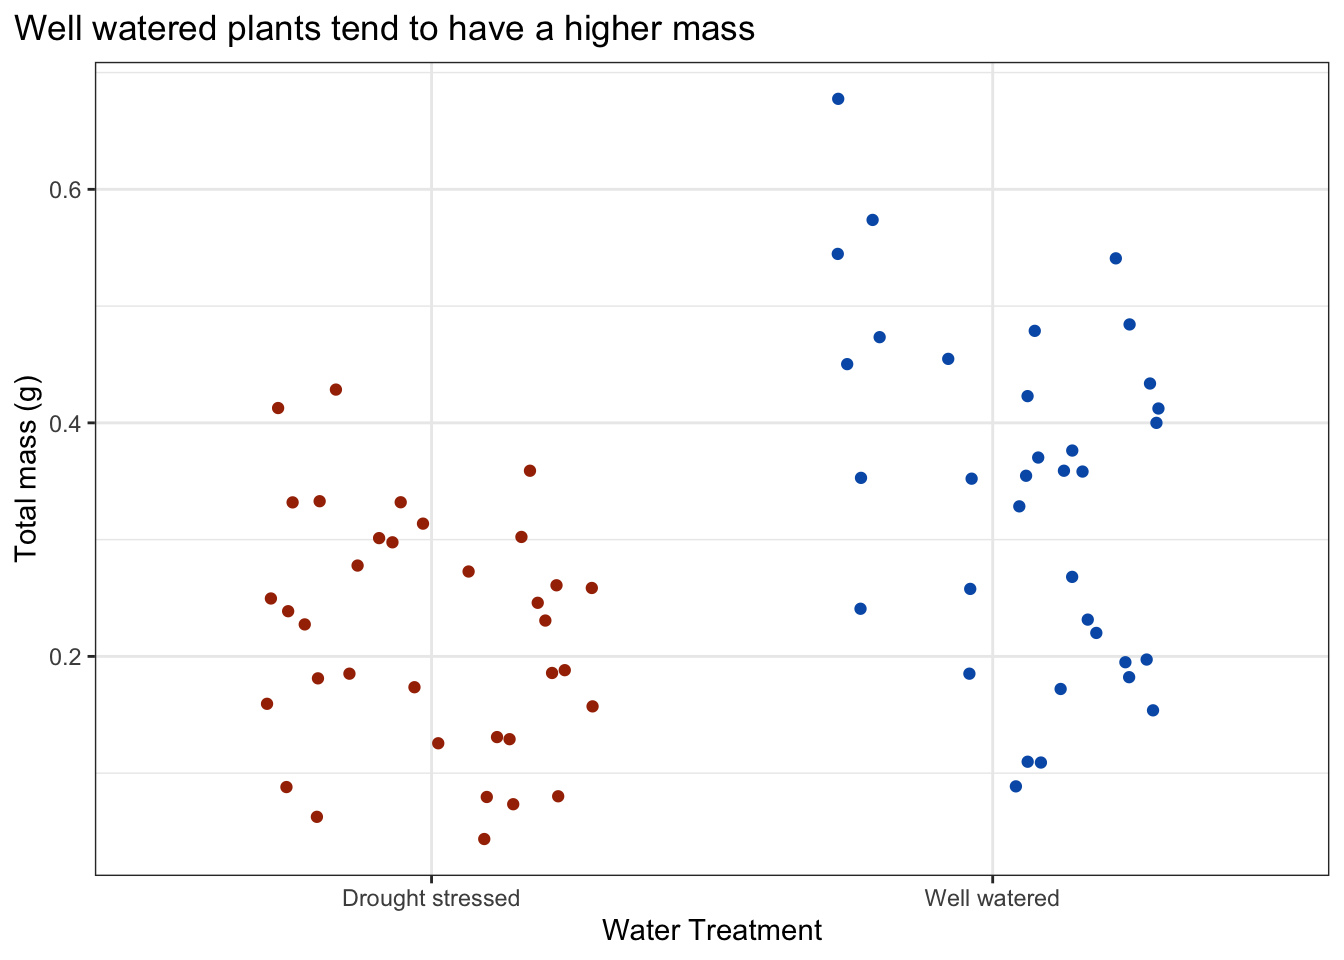
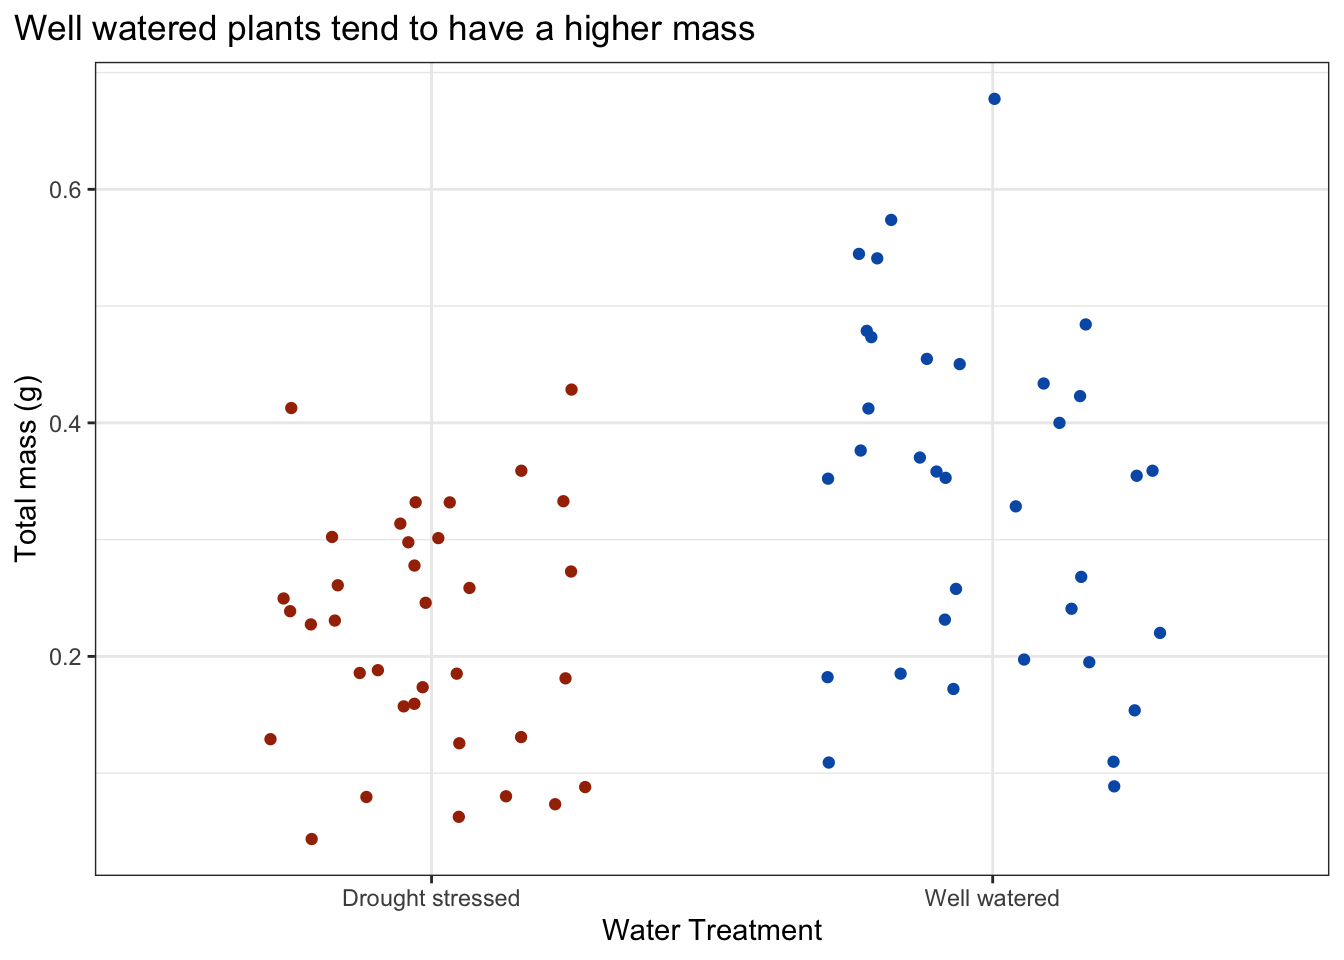
Selected best model, looked at summary and wrote about models

diff --git a/code/workshop-code.html b/code/workshop-code.html
@@ -300,16 +300,16 @@ pre > code.sourceCode > span > a:first-child::before { text-decoration: underlin
 <pre><code># A tibble: 10 × 4
    species_name               water_treatment    sla total_g
    &lt;fct&gt;                      &lt;fct&gt;            &lt;dbl&gt;   &lt;dbl&gt;
- 1 Salvia leucophylla         Well watered     113.   0.195 
- 2 Eschscholzia californica   Well watered     157.   0.358 
- 3 Grindelia camporum         Well watered     221.   0.473 
- 4 Encelia californica        Well watered     170.   0.455 
- 5 Encelia californica        Drought stressed 180.   0.332 
- 6 Eschscholzia californica   Well watered     127.   0.434 
- 7 Lotus scoparius            Drought stressed  90.9  0.0796
- 8 Penstemon centranthifolius Well watered     154.   0.268 
- 9 Salvia leucophylla         Drought stressed  99.7  0.227 
-10 Lotus scoparius            Drought stressed 116.   0.0802</code></pre>
+ 1 Salvia leucophylla         Drought stressed 110.    0.185
+ 2 Encelia californica        Well watered     170.    0.455
+ 3 Encelia californica        Drought stressed 161.    0.273
+ 4 Eschscholzia californica   Well watered     117.    0.574
+ 5 Stipa pulchra              Drought stressed 135.    0.332
+ 6 Salvia leucophylla         Well watered      99.7   0.241
+ 7 Eschscholzia californica   Well watered     116.    0.423
+ 8 Penstemon centranthifolius Drought stressed 175.    0.188
+ 9 Encelia californica        Well watered     216.    0.359
+10 Grindelia camporum         Well watered     221.    0.473</code></pre>
 </div>
 </div>
 </section>
@@ -486,55 +486,139 @@ pre > code.sourceCode > span > a:first-child::before { text-decoration: underlin
 <h2 class="anchored" data-anchor-id="model-fitting">Model fitting</h2>
 <div class="cell">
 <div class="sourceCode cell-code" id="cb11"><pre class="sourceCode r code-with-copy"><code class="sourceCode r"><span id="cb11-1"><a href="#cb11-1" aria-hidden="true" tabindex="-1"></a><span class="co"># model 0: null model</span></span>
-<span id="cb11-2"><a href="#cb11-2" aria-hidden="true" tabindex="-1"></a></span>
-<span id="cb11-3"><a href="#cb11-3" aria-hidden="true" tabindex="-1"></a></span>
-<span id="cb11-4"><a href="#cb11-4" aria-hidden="true" tabindex="-1"></a><span class="co"># model 1: all predictors</span></span>
-<span id="cb11-5"><a href="#cb11-5" aria-hidden="true" tabindex="-1"></a></span>
-<span id="cb11-6"><a href="#cb11-6" aria-hidden="true" tabindex="-1"></a></span>
-<span id="cb11-7"><a href="#cb11-7" aria-hidden="true" tabindex="-1"></a><span class="co"># model 2: SLA and water treatment</span></span>
-<span id="cb11-8"><a href="#cb11-8" aria-hidden="true" tabindex="-1"></a></span>
+<span id="cb11-2"><a href="#cb11-2" aria-hidden="true" tabindex="-1"></a>model0 <span class="ot">&lt;-</span> <span class="fu">lm</span>(total_g <span class="sc">~</span> <span class="dv">1</span>,</span>
+<span id="cb11-3"><a href="#cb11-3" aria-hidden="true" tabindex="-1"></a>             <span class="at">data =</span> drought_exp_clean)</span>
+<span id="cb11-4"><a href="#cb11-4" aria-hidden="true" tabindex="-1"></a></span>
+<span id="cb11-5"><a href="#cb11-5" aria-hidden="true" tabindex="-1"></a><span class="co"># model 1: all predictors</span></span>
+<span id="cb11-6"><a href="#cb11-6" aria-hidden="true" tabindex="-1"></a>model1 <span class="ot">&lt;-</span> <span class="fu">lm</span>(total_g <span class="sc">~</span> sla <span class="sc">+</span></span>
+<span id="cb11-7"><a href="#cb11-7" aria-hidden="true" tabindex="-1"></a>               water_treatment <span class="sc">+</span> species_name,</span>
+<span id="cb11-8"><a href="#cb11-8" aria-hidden="true" tabindex="-1"></a>             <span class="at">data =</span> drought_exp_clean)</span>
 <span id="cb11-9"><a href="#cb11-9" aria-hidden="true" tabindex="-1"></a></span>
-<span id="cb11-10"><a href="#cb11-10" aria-hidden="true" tabindex="-1"></a><span class="co"># model 3: SLA and species</span></span>
-<span id="cb11-11"><a href="#cb11-11" aria-hidden="true" tabindex="-1"></a></span>
-<span id="cb11-12"><a href="#cb11-12" aria-hidden="true" tabindex="-1"></a></span>
-<span id="cb11-13"><a href="#cb11-13" aria-hidden="true" tabindex="-1"></a><span class="co"># model 4: water treatment and species</span></span>
-<span id="cb11-14"><a href="#cb11-14" aria-hidden="true" tabindex="-1"></a></span>
-<span id="cb11-15"><a href="#cb11-15" aria-hidden="true" tabindex="-1"></a></span>
-<span id="cb11-16"><a href="#cb11-16" aria-hidden="true" tabindex="-1"></a><span class="co"># model 5: SLA</span></span>
+<span id="cb11-10"><a href="#cb11-10" aria-hidden="true" tabindex="-1"></a><span class="co"># model 2: SLA and water treatment</span></span>
+<span id="cb11-11"><a href="#cb11-11" aria-hidden="true" tabindex="-1"></a>model2 <span class="ot">&lt;-</span> <span class="fu">lm</span>(total_g <span class="sc">~</span> sla <span class="sc">+</span> water_treatment,</span>
+<span id="cb11-12"><a href="#cb11-12" aria-hidden="true" tabindex="-1"></a>             <span class="at">data =</span> drought_exp_clean)</span>
+<span id="cb11-13"><a href="#cb11-13" aria-hidden="true" tabindex="-1"></a></span>
+<span id="cb11-14"><a href="#cb11-14" aria-hidden="true" tabindex="-1"></a><span class="co"># model 3: SLA and species</span></span>
+<span id="cb11-15"><a href="#cb11-15" aria-hidden="true" tabindex="-1"></a>model3 <span class="ot">&lt;-</span> <span class="fu">lm</span>(total_g <span class="sc">~</span> sla <span class="sc">+</span> species_name,</span>
+<span id="cb11-16"><a href="#cb11-16" aria-hidden="true" tabindex="-1"></a>             <span class="at">data =</span> drought_exp_clean)</span>
 <span id="cb11-17"><a href="#cb11-17" aria-hidden="true" tabindex="-1"></a></span>
-<span id="cb11-18"><a href="#cb11-18" aria-hidden="true" tabindex="-1"></a></span>
-<span id="cb11-19"><a href="#cb11-19" aria-hidden="true" tabindex="-1"></a><span class="co"># model 6: water treatment</span></span>
-<span id="cb11-20"><a href="#cb11-20" aria-hidden="true" tabindex="-1"></a></span>
+<span id="cb11-18"><a href="#cb11-18" aria-hidden="true" tabindex="-1"></a><span class="co"># model 4: water treatment and species</span></span>
+<span id="cb11-19"><a href="#cb11-19" aria-hidden="true" tabindex="-1"></a>model4 <span class="ot">&lt;-</span> <span class="fu">lm</span>(total_g <span class="sc">~</span> water_treatment <span class="sc">+</span> species_name,</span>
+<span id="cb11-20"><a href="#cb11-20" aria-hidden="true" tabindex="-1"></a>             <span class="at">data =</span> drought_exp_clean)</span>
 <span id="cb11-21"><a href="#cb11-21" aria-hidden="true" tabindex="-1"></a></span>
-<span id="cb11-22"><a href="#cb11-22" aria-hidden="true" tabindex="-1"></a><span class="co"># model 7: species</span></span></code><button title="Copy to Clipboard" class="code-copy-button"><i class="bi"></i></button></pre></div>
+<span id="cb11-22"><a href="#cb11-22" aria-hidden="true" tabindex="-1"></a><span class="co"># model 5: SLA</span></span>
+<span id="cb11-23"><a href="#cb11-23" aria-hidden="true" tabindex="-1"></a>model5 <span class="ot">&lt;-</span> <span class="fu">lm</span>(total_g <span class="sc">~</span> sla,</span>
+<span id="cb11-24"><a href="#cb11-24" aria-hidden="true" tabindex="-1"></a>             <span class="at">data =</span> drought_exp_clean)</span>
+<span id="cb11-25"><a href="#cb11-25" aria-hidden="true" tabindex="-1"></a></span>
+<span id="cb11-26"><a href="#cb11-26" aria-hidden="true" tabindex="-1"></a><span class="co"># model 6: water treatment</span></span>
+<span id="cb11-27"><a href="#cb11-27" aria-hidden="true" tabindex="-1"></a>model6 <span class="ot">&lt;-</span> <span class="fu">lm</span>(total_g <span class="sc">~</span> water_treatment,</span>
+<span id="cb11-28"><a href="#cb11-28" aria-hidden="true" tabindex="-1"></a>             <span class="at">data =</span> drought_exp_clean)</span>
+<span id="cb11-29"><a href="#cb11-29" aria-hidden="true" tabindex="-1"></a></span>
+<span id="cb11-30"><a href="#cb11-30" aria-hidden="true" tabindex="-1"></a><span class="co"># model 7: species</span></span>
+<span id="cb11-31"><a href="#cb11-31" aria-hidden="true" tabindex="-1"></a>model7 <span class="ot">&lt;-</span> <span class="fu">lm</span>(total_g <span class="sc">~</span> species_name,</span>
+<span id="cb11-32"><a href="#cb11-32" aria-hidden="true" tabindex="-1"></a>             <span class="at">data =</span> drought_exp_clean)</span></code><button title="Copy to Clipboard" class="code-copy-button"><i class="bi"></i></button></pre></div>
 </div>
 </section>
 <section id="model-selection" class="level2">
 <h2 class="anchored" data-anchor-id="model-selection">Model selection</h2>
 <p>Insert code to use the <code>AICc()</code> function to calculate the AIC for each model.</p>
 <p>Arrange by decreasing AIC.</p>
+<div class="cell">
+<div class="sourceCode cell-code" id="cb12"><pre class="sourceCode r code-with-copy"><code class="sourceCode r"><span id="cb12-1"><a href="#cb12-1" aria-hidden="true" tabindex="-1"></a><span class="fu">AICc</span>(</span>
+<span id="cb12-2"><a href="#cb12-2" aria-hidden="true" tabindex="-1"></a>  model0,</span>
+<span id="cb12-3"><a href="#cb12-3" aria-hidden="true" tabindex="-1"></a>  model1,</span>
+<span id="cb12-4"><a href="#cb12-4" aria-hidden="true" tabindex="-1"></a>  model2,</span>
+<span id="cb12-5"><a href="#cb12-5" aria-hidden="true" tabindex="-1"></a>  model3,</span>
+<span id="cb12-6"><a href="#cb12-6" aria-hidden="true" tabindex="-1"></a>  model4,</span>
+<span id="cb12-7"><a href="#cb12-7" aria-hidden="true" tabindex="-1"></a>  model5,</span>
+<span id="cb12-8"><a href="#cb12-8" aria-hidden="true" tabindex="-1"></a>  model6,</span>
+<span id="cb12-9"><a href="#cb12-9" aria-hidden="true" tabindex="-1"></a>  model7</span>
+<span id="cb12-10"><a href="#cb12-10" aria-hidden="true" tabindex="-1"></a>) <span class="sc">|&gt;</span> </span>
+<span id="cb12-11"><a href="#cb12-11" aria-hidden="true" tabindex="-1"></a>  <span class="fu">arrange</span>(AICc)</span></code><button title="Copy to Clipboard" class="code-copy-button"><i class="bi"></i></button></pre></div>
+<div class="cell-output cell-output-stdout">
+<pre><code>       df       AICc
+model4  9 -156.19595
+model1 10 -153.75361
+model3  9 -124.07569
+model7  8 -120.30191
+model2  4  -95.82521
+model5  3  -88.85180
+model6  3  -86.76661
+model0  2  -74.98036</code></pre>
+</div>
+</div>
+<p>Arrange by decreasing AIC.</p>
+<p>Best model is model4: the on ethat includes only water treatment and species.</p>
 </section>
 <section id="model-diagnostics" class="level2">
 <h2 class="anchored" data-anchor-id="model-diagnostics">Model diagnostics</h2>
 <p>Insert code to look at the diagnostic plots for the best model.</p>
+<div class="cell">
+<div class="sourceCode cell-code" id="cb14"><pre class="sourceCode r code-with-copy"><code class="sourceCode r"><span id="cb14-1"><a href="#cb14-1" aria-hidden="true" tabindex="-1"></a><span class="fu">par</span>(<span class="at">mfrow =</span> <span class="fu">c</span>(<span class="dv">2</span>, <span class="dv">2</span>)) </span>
+<span id="cb14-2"><a href="#cb14-2" aria-hidden="true" tabindex="-1"></a><span class="fu">plot</span>(model4) </span></code><button title="Copy to Clipboard" class="code-copy-button"><i class="bi"></i></button></pre></div>
+<div class="cell-output-display">
+<div>
+<figure class="figure">
+<p><img src="workshop-code_files/figure-html/residual%20plots%20for%20model4-1.png" class="img-fluid figure-img" width="672"></p>
+</figure>
+</div>
+</div>
+</div>
+<p>Diagnostic plots look good.</p>
+<p>Residuals (standing in for errors) look normally distributed based on the QQ plot. Residuals look homoscedastic (have constant variance) based on residuals vs.&nbsp;Fitted plot and Scale-Location plot.</p>
+<p>No outliers influencing model estimates of coefficients.</p>
 </section>
 <section id="summary" class="level2">
 <h2 class="anchored" data-anchor-id="summary">Summary</h2>
 <p>Insert code to display the summary for the best model.</p>
+<div class="cell">
+<div class="sourceCode cell-code" id="cb15"><pre class="sourceCode r code-with-copy"><code class="sourceCode r"><span id="cb15-1"><a href="#cb15-1" aria-hidden="true" tabindex="-1"></a><span class="fu">summary</span>(model4)</span></code><button title="Copy to Clipboard" class="code-copy-button"><i class="bi"></i></button></pre></div>
+<div class="cell-output cell-output-stdout">
+<pre><code>
+Call:
+lm(formula = total_g ~ water_treatment + species_name, data = drought_exp_clean)
+
+Residuals:
+      Min        1Q    Median        3Q       Max 
+-0.157087 -0.046953 -0.003733  0.041244  0.192657 
+
+Coefficients:
+                                       Estimate Std. Error t value Pr(&gt;|t|)    
+(Intercept)                             0.05455    0.02451   2.225  0.02973 *  
+water_treatmentWell watered             0.11695    0.01733   6.746 5.90e-09 ***
+species_namePenstemon centranthifolius  0.05003    0.03243   1.543  0.12799    
+species_nameSalvia leucophylla          0.12020    0.03243   3.706  0.00045 ***
+species_nameEncelia californica         0.21774    0.03243   6.714 6.70e-09 ***
+species_nameStipa pulchra               0.22881    0.03243   7.055 1.72e-09 ***
+species_nameEschscholzia californica    0.23164    0.03243   7.143 1.22e-09 ***
+species_nameGrindelia camporum          0.31335    0.03243   9.662 5.53e-14 ***
+---
+Signif. codes:  0 '***' 0.001 '**' 0.01 '*' 0.05 '.' 0.1 ' ' 1
+
+Residual standard error: 0.07252 on 62 degrees of freedom
+Multiple R-squared:  0.7535,    Adjusted R-squared:  0.7257 
+F-statistic: 27.08 on 7 and 62 DF,  p-value: &lt; 2.2e-16</code></pre>
+</div>
+</div>
 <p><strong>What are the reference levels?</strong></p>
+<p>Drought treatment and Lotus scoparius because they are not listed in the summary output.</p>
 <p><strong>What does the <code>(Intercept)</code> represent?</strong></p>
+<p>Estimated mass for drought stressed lotus scoparius 0.055 +/- 0.02 (SE) g.</p>
 <p><strong>What does <code>water_treatmentWell watered</code> represent?</strong></p>
+<p>This is the model prediction for the difference in Lotus scoparius mass between the well watered and drought stressed treatments. The model predicts the difference is 0.12 +/- 0.02 (SE) g.</p>
 <p><strong>What does <code>species_namePenstemon centranthifolius</code> represent?</strong></p>
+<p>This is the model prediction for the difference between Penstemon centranthifolius mass in the well watered treatment and Lotus scoparius mass in the well watered treatment. The model predicts that this difference is 0.05 +/- 0.03 (SE) g.</p>
 <p><strong>What does <code>species_nameEschscholzia californica</code> represent?</strong></p>
+<p>This is the model prediction for the difference between Escholzia californica mass in the well watered treatment and Lotus scoparius mass in the well watered treatment. The model predicts that this difference is 0.23 +/- 0.03 (SE) g.</p>
 </section>
 <section id="stop-and-think-what-does-this-model-mean" class="level2">
 <h2 class="anchored" data-anchor-id="stop-and-think-what-does-this-model-mean">Stop and think: what does this model mean?</h2>
 <p><strong>What is the best model?</strong></p>
-<p>[insert your response here]</p>
+<p>The best model includes water treatment and species as predictors.</p>
 <p><strong>How much variation in the response (total mass, in grams) does this model explain?</strong></p>
-<p>[insert your response here]</p>
+<p>This model explains 72% of the variation in plant mass.</p>
 <p><strong>How do we interpret the effects of the predictors on the response variable (again, total mass in grams)?</strong></p>
-<p>[insert your response here]</p>
+<p>Water treatment influences plant mass. Species influences plant mass.</p>
 </section>
 </section>
 <section id="model-predictions" class="level1">
